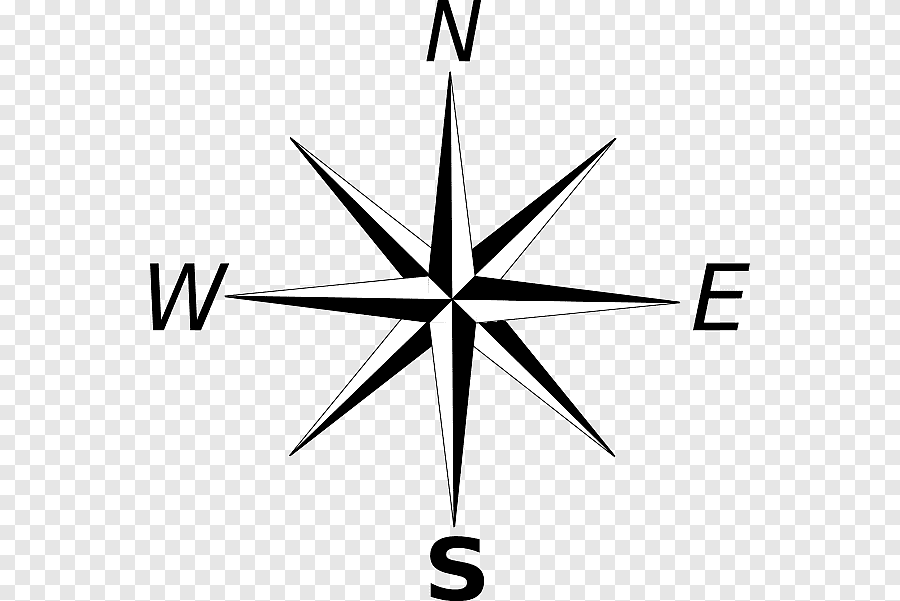
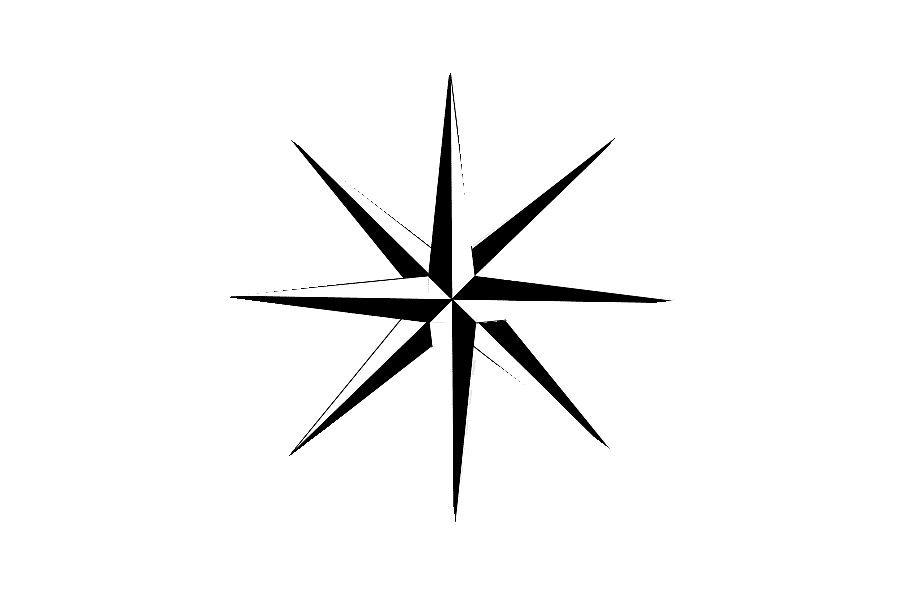
edited photos, and made compass bigger

diff --git a/Final_Website/main.js b/Final_Website/main.js
@@ -246,7 +246,7 @@ function compassShake(rotation, compassButton, negative){
 // HENRYYYYYYYYY - this is where you come in
 // I'm thinking that you have one function that makes a json requests and
 // stores the data to a variable in the JS file, then this function simply uses this
-// variable and filters the correct data. 
+// variable and filters the correct data.  
 
 function getFilterData(param=null) { // gets all data
     // fetch("http://127.0.0.1:5000/data")

diff --git a/Final_Website/styles.css b/Final_Website/styles.css
@@ -286,14 +286,14 @@ select {
     left: 50%;
     transform: translate(-50%, -50%);
 
-    width: 90%;
-    height: 90%;
+    width: 170%;
+    height: 150%;
 }
 .img-compass-arrow{
     position: absolute;
     top: 50%;
     left: 50%;
-    transform: translate(-49.5%, -50%) rotate(-45deg);
+    transform: translate(-48.5%, -50%) rotate(-45deg);
     z-index: 10;
     width: 70%;
     height: 70%;
